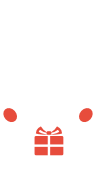
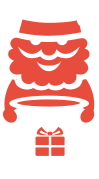
add background

diff --git a/core/src/main/kotlin/by/matveev/christmascandyfall/core/AbstractScreen.kt b/core/src/main/kotlin/by/matveev/christmascandyfall/core/AbstractScreen.kt
@@ -26,6 +26,8 @@ import com.badlogic.gdx.scenes.scene2d.Group
 import by.matveev.christmascandyfall.Cfg
 import by.matveev.christmascandyfall.utils.onKeyDown
 import com.badlogic.gdx.graphics.glutils.ShapeRenderer
+import com.badlogic.gdx.utils.viewport.FillViewport
+import by.matveev.christmascandyfall.utils.updateViewport
 
 public abstract class AbstractScreen : Screen {
 
@@ -37,10 +39,13 @@ public abstract class AbstractScreen : Screen {
     val renderer = ShapeRenderer()
     var isGutterVisible = false;
 
+    val backgroundStage: Stage
     public val stage: Stage;
     {
+
         stage = Stage(FitViewport(Cfg.width, Cfg.height))
         stage.onKeyDown { onHardKeyPressed(it) }
+        backgroundStage = Stage(FitViewport(Cfg.width, Cfg.height))
     }
 
     override fun render(delta: Float) {
@@ -62,6 +67,9 @@ public abstract class AbstractScreen : Screen {
                 end()
             }
         }
+
+        backgroundStage.act()
+        backgroundStage.draw()
 
         stage.act()
         stage.draw()

diff --git a/core/src/main/kotlin/by/matveev/christmascandyfall/screens/GameScreen.kt b/core/src/main/kotlin/by/matveev/christmascandyfall/screens/GameScreen.kt
@@ -38,6 +38,8 @@ import com.badlogic.gdx.scenes.scene2d.Actor
 import java.util.ArrayList
 import com.badlogic.gdx.Input
 import by.matveev.christmascandyfall.core.Prefs
+import com.badlogic.gdx.scenes.scene2d.Stage
+import com.badlogic.gdx.utils.viewport.FillViewport
 
 public class GameScreen(var controlType: ControlType) : AbstractScreen() {
 
@@ -89,7 +91,7 @@ public class GameScreen(var controlType: ControlType) : AbstractScreen() {
         startMessage.setPosition((Cfg.width - startMessage.getPrefWidth()) * 0.5F, Cfg.height * 0.5F);
         root().addActor(startMessage)
 
-        image(root(), atlas.findRegion("background"))
+        image(backgroundStage.getRoot(), atlas.findRegion("background"))
 
         santa.setPosition((Cfg.width - santa.getPrefWidth()) * 0.5F, 0F)
         santa.pack()
